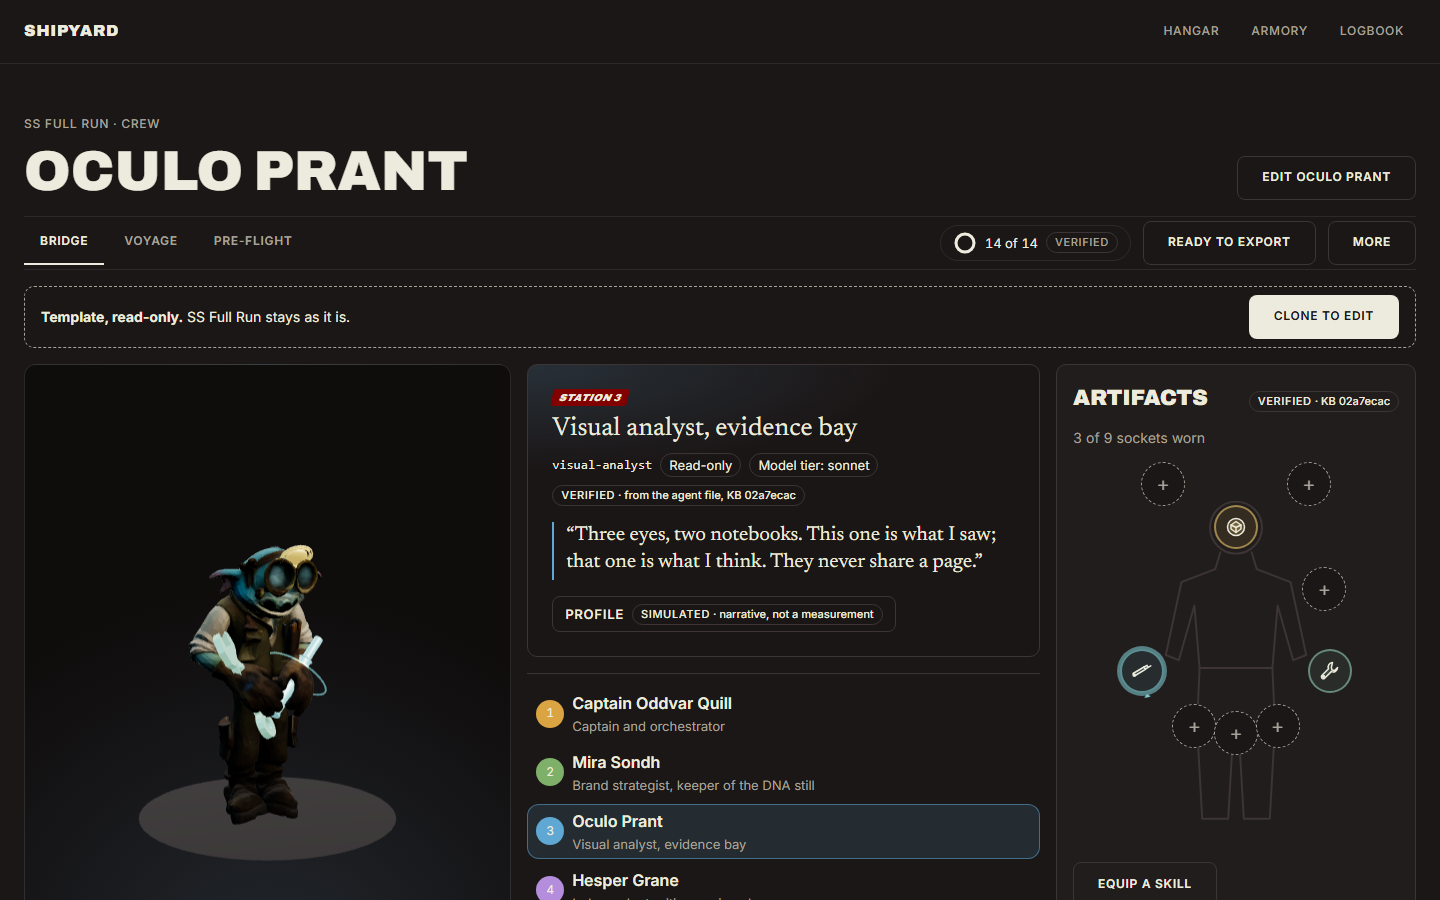
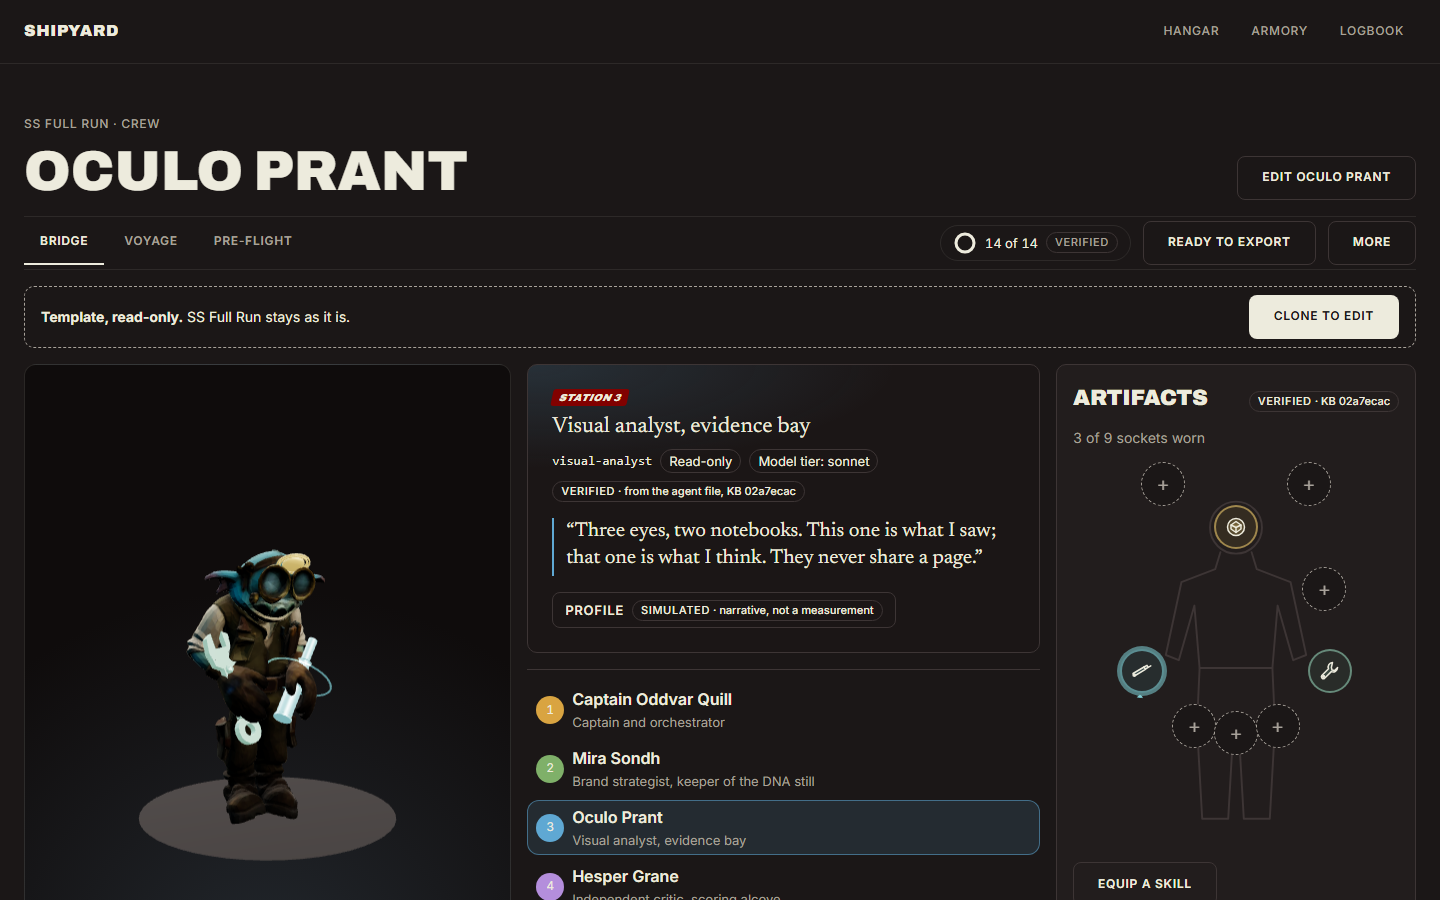
Shipyard T16: critic quick wins n1 n3 n4 n5 + residues

Changed region(s): [[0.375, 0.4667, 0.7188, 1.0], [0.125, 0.5911, 0.25, 0.84]]

diff --git a/shipyard/src/features/board/BoardPage.tsx b/shipyard/src/features/board/BoardPage.tsx
@@ -35,30 +35,60 @@ import { PHASE_LABEL, pipelineOf } from './pipeline';
 
 /** Longest the loading veil stays up: past this the scene shows whatever it has, never a stuck veil. */
 const LOADING_MAX_MS = 20_000;
+/** When the loader never reports work (every GLB already cached), the veil lifts after this grace (critic n5). */
+const LOADING_IDLE_GRACE_MS = 1_500;
+/** After this long the veil offers a way out: enter the bridge without 3D, or retry (critic n5). */
+const LOADING_SLOW_MS = 8_000;
 
 /**
  * Cold load (finish review): the corridor's GLBs take a few seconds, and the stage was plain black
  * meanwhile. The veil names what is coming with a progress line, and lifts once the loader has started
- * and gone idle, or after LOADING_MAX_MS. It covers only the stage: the card, Skip and the rail work at once.
+ * and gone idle, once the loader has stayed idle for a short grace, or after LOADING_MAX_MS. It covers
+ * only the stage: the card, Skip and the rail work at once. It is a polite status region, so a screen
+ * reader hears "Loading" and then "Ready" (v2, critic n5).
  */
-function LoadingVeil({ name }: { name: string }) {
+function LoadingVeil({ name, onSkip }: { name: string; onSkip: () => void }) {
   const { active, progress, total } = useProgress();
-  const [timedOut, setTimedOut] = useState(false);
+  const [elapsed, setElapsed] = useState<'start' | 'grace' | 'slow' | 'max'>('start');
   const [seen, setSeen] = useState(false);
   useEffect(() => {
-    const t = window.setTimeout(() => setTimedOut(true), LOADING_MAX_MS);
-    return () => window.clearTimeout(t);
+    const ts = [
+      window.setTimeout(() => setElapsed((e) => (e === 'start' ? 'grace' : e)), LOADING_IDLE_GRACE_MS),
+      window.setTimeout(() => setElapsed((e) => (e === 'max' ? e : 'slow')), LOADING_SLOW_MS),
+      window.setTimeout(() => setElapsed('max'), LOADING_MAX_MS),
+    ];
+    return () => ts.forEach((t) => window.clearTimeout(t));
   }, []);
   // remembered during render (React's pattern for state derived from a changing input), not in an effect
   if (active && !seen) setSeen(true);
-  const done = timedOut || (seen && !active) || (total > 0 && !active && progress >= 100);
+  const done = elapsed === 'max' || (seen && !active) || (!seen && !active && elapsed !== 'start') || (total > 0 && !active && progress >= 100);
+  const slow = !done && elapsed === 'slow';
   return (
-    <p className="ship-loading" data-testid="scene-loading" data-done={done || undefined} aria-hidden="true" style={{ ['--p' as string]: String(Math.min(1, progress / 100)) } as CSSProperties}>
-      <span className="label">Boarding {name}</span>
-      <span className="ship-loading-bar">
-        <span />
-      </span>
-    </p>
+    <div className="ship-loading" data-testid="scene-loading" data-done={done || undefined} role="status" aria-live="polite" style={{ ['--p' as string]: String(Math.min(1, progress / 100)) } as CSSProperties}>
+      {done ? (
+        <span className="sr-only">{name} is ready.</span>
+      ) : (
+        <>
+          <span className="label">Boarding {name}</span>
+          <span className="ship-loading-bar" aria-hidden="true">
+            <span />
+          </span>
+          {slow && (
+            <span className="ship-loading-slow">
+              <span className="prose">The ship is taking a while to load.</span>
+              <span className="ship-loading-actions">
+                <button type="button" className="btn btn-primary" onClick={onSkip} data-testid="enter-without-3d">
+                  Enter without 3D
+                </button>
+                <button type="button" className="btn btn-quiet" onClick={() => window.location.reload()}>
+                  Retry
+                </button>
+              </span>
+            </span>
+          )}
+        </>
+      )}
+    </div>
   );
 }
 
@@ -208,7 +238,7 @@ export function BoardTour({ ship, reduced, quality, lite, sound, onSound, onSkip
   return (
     <div className="ship-intro" data-testid="ship-intro" data-waypoint={wp?.id ?? 'bridge'}>
       <div className="ship-intro-stage" ref={stage} data-look={lockable ? 'capture' : 'drag'}>
-        <LoadingVeil name={ship.name} />
+        <LoadingVeil name={ship.name} onSkip={onSkip} />
         <ShipScene crew={crew} layout={layout} walker={walker} reduced={reduced} quality={quality} activeMember={member?.id ?? null} welcome={last} lite={lite} screens={screens} talking={talkingHere} bubble={bubble} found={found} waypoint={index ?? stop} sound={sound} onPick={pick} onInspect={inspect} onContextLost={onContextLost} />
         {lockable &&
           (captured ? (

diff --git a/shipyard/src/styles/ship.css b/shipyard/src/styles/ship.css
@@ -32,6 +32,8 @@
 .ship-turntable {
   aspect-ratio: 4 / 5;
   width: 100%;
+  /* the feet stay above the fold at 1440×900 (critic residue): the stage shortens; the figure is framed by height, so it stays whole */
+  max-height: max(380px, calc(100svh - 390px));
   border-radius: 12px;
   background: radial-gradient(120% 90% at 50% 100%, color-mix(in oklab, var(--c, #3a2f2b) 18%, #141010) 0%, #0f0c0c 70%);
   border: 1px solid color-mix(in oklab, currentColor 12%, transparent);
@@ -333,6 +335,19 @@
 .ship-loading[data-done] {
   opacity: 0;
   pointer-events: none;
+}
+.ship-loading-slow {
+  display: grid;
+  justify-items: center;
+  gap: var(--s2);
+  margin-top: var(--s3);
+  pointer-events: auto;
+}
+.ship-loading-actions {
+  display: flex;
+  flex-wrap: wrap;
+  justify-content: center;
+  gap: var(--s2);
 }
 .ship-loading-bar {
   width: 160px;
@@ -832,6 +847,8 @@
     bottom: calc(var(--s2) + env(safe-area-inset-bottom, 0px));
     max-height: 60svh;
     overflow: auto;
+    /* a chip reached by Tab or scrolled to stops above the pinned actions, never under them (critic residue; WCAG 2.4.11) */
+    scroll-padding-bottom: 72px;
     width: auto;
     gap: var(--s2);
     padding: var(--s3);
@@ -974,7 +991,8 @@
 .ship-more-menu { position: absolute; right: 0; top: calc(100% + 4px); z-index: 20; display: grid; gap: var(--s1); min-width: 200px; padding: var(--s2); background: var(--elevated); border: 1px solid var(--border); border-radius: var(--r-panel); }
 .template-line { display: flex; align-items: center; justify-content: space-between; gap: var(--s4); flex-wrap: wrap; margin: 0 0 var(--s4); padding: var(--s2) var(--s4); border: 1px dashed var(--muted); border-radius: var(--r-panel); font-size: 14px; }
 .template-line .btn { min-height: var(--hit); }
-.ship-identity-role { margin: 0; font-family: var(--font-serif); font-weight: 400; font-size: 26px; line-height: 1.2; }
+.ship-identity-role { margin: 0; font-family: var(--font-serif); font-weight: 400; font-size: 22px; line-height: 1.25; } /* the card-title token (DESIGN.md: 22 / 20px); was 26 (critic residue) */
+@media (max-width: 767px) { .ship-identity-role { font-size: 20px; } }
 .ship-identity > header > .skew-badge { justify-self: start; }
 .ship-profile-more > summary { list-style: none; cursor: pointer; display: inline-flex; gap: var(--s2); align-items: center; }
 .ship-profile-more > summary::-webkit-details-marker { display: none; }

diff --git a/shipyard/src/features/preflight/fix.ts b/shipyard/src/features/preflight/fix.ts
@@ -4,6 +4,23 @@
  * A finding with no member or stage of its own (a ship-wide one) goes to the screen that owns the rule.
  */
 import type { Check, Finding } from '../../domain/preflight';
+import { isStage, type Ship } from '../../domain/schema';
+import type { KbIndex } from '../../kb/artifacts';
+
+/** Words for the ids a fix names (critic n4): the crew member's name, the stage's label, the artifact's name. An id shows only when nothing names it (a retired item). */
+export interface FixNames {
+  member?: (id: string) => string;
+  stage?: (id: string) => string;
+  skill?: (id: string) => string;
+}
+
+export function fixNames(ship: Ship, idx?: KbIndex): FixNames {
+  return {
+    member: (id) => ship.crew.find((m) => m.id === id)?.character.name ?? id,
+    stage: (id) => ship.voyage.find((v) => isStage(v) && v.id === id)?.label ?? id,
+    skill: (id) => idx?.skill.get(id)?.name ?? id,
+  };
+}
 
 export interface FixTarget {
   /** a router path, for `<Link to>` */
@@ -13,19 +30,19 @@ export interface FixTarget {
 
 const VOYAGE_RULES = new Set(['PF-08', 'PF-10', 'PF-13']);
 
-export function fixTarget(shipId: string, check: Pick<Check, 'id'>, finding: Finding, memberName?: (id: string) => string): FixTarget | null {
+export function fixTarget(shipId: string, check: Pick<Check, 'id'>, finding: Finding, names: FixNames = {}): FixTarget | null {
   const fix = finding.fix;
   if (!fix) return null;
   const base = `/ship/${encodeURIComponent(shipId)}`;
   switch (fix.kind) {
     case 'stage':
-      return { to: `${base}/voyage?stage=${encodeURIComponent(fix.id)}`, label: `Fix stage ${fix.id}` };
+      return { to: `${base}/voyage?stage=${encodeURIComponent(fix.id)}`, label: `Fix the ${names.stage?.(fix.id) ?? fix.id} stage` };
     case 'member':
-      return { to: `${base}/bridge?member=${encodeURIComponent(fix.id)}`, label: `Fix ${memberName?.(fix.id) ?? fix.id}` };
+      return { to: `${base}/bridge?member=${encodeURIComponent(fix.id)}`, label: `Fix ${names.member?.(fix.id) ?? fix.id}` };
     case 'socket':
       return {
         to: `${base}/bridge?member=${encodeURIComponent(fix.member)}&skill=${encodeURIComponent(fix.skill)}`,
-        label: `Open ${memberName?.(fix.member) ?? fix.member}'s ${fix.skill}`,
+        label: `Open ${names.member?.(fix.member) ?? fix.member}'s ${names.skill?.(fix.skill) ?? fix.skill}`,
       };
     case 'ship':
       return VOYAGE_RULES.has(check.id)

diff --git a/shipyard/tests/unit/quick-wins.test.ts b/shipyard/tests/unit/quick-wins.test.ts
@@ -1,0 +1,48 @@
+/** v2 T16: the critic's n1, n3 and n4 as numbers, so they cannot drift back. */
+import { describe, expect, it } from 'vitest';
+import { defaultShip } from '../../src/domain/ship';
+import { isStage } from '../../src/domain/schema';
+import { fixNames, fixTarget } from '../../src/features/preflight/fix';
+import { fitWidth, MIN_FOCUS_FILL } from '../../src/features/hangar/FleetRing';
+import { ACTIVE_ORBIT_LIFT, ORBIT_STAGGER, orbitPhase } from '../../src/scene/artifacts/WornArtifacts';
+import { loadIndexFromDisk } from './helpers';
+
+const idx = loadIndexFromDisk();
+const AT = '2026-11-08T00:00:00.000Z';
+
+describe('n1: the focused hull keeps its size', () => {
+  it('never needs more than HULL_LENGTH / MIN_FOCUS_FILL of width, whatever the fleet size', () => {
+    for (let n = 2; n <= 9; n++) expect(fitWidth(n)).toBeLessThanOrEqual(3.9 / MIN_FOCUS_FILL + 1e-9);
+    expect(fitWidth(1)).toBe(4.5);
+  });
+});
+
+describe('n3: resting orbiters spread across the front arc', () => {
+  it('centres one item on the viewer and keeps several within the front half, evenly spaced', () => {
+    expect(orbitPhase(0, 1)).toBeCloseTo(Math.PI / 2);
+    const ph = [0, 1, 2, 3].map((i) => orbitPhase(i, 4));
+    for (const p of ph) expect(Math.abs(p - Math.PI / 2)).toBeLessThan(Math.PI / 2);
+    const gaps = ph.slice(1).map((p, i) => p - ph[i]);
+    for (const g of gaps) expect(g).toBeCloseTo(gaps[0]);
+    expect(ACTIVE_ORBIT_LIFT).toBeGreaterThan(ORBIT_STAGGER);
+  });
+});
+
+describe('n4: fix labels name things, not ids', () => {
+  const ship = defaultShip(idx, AT);
+  const names = fixNames(ship, idx);
+  const stage = ship.voyage.find(isStage)!;
+  const check = { id: 'PF-03' };
+  it('uses the stage label', () => {
+    expect(fixTarget(ship.id, check, { severity: 'block', reason: 'r', fix: { kind: 'stage', id: stage.id } }, names)?.label).toBe(`Fix the ${stage.label} stage`);
+  });
+  it("uses the member's name and the artifact's name", () => {
+    const m = ship.crew[0];
+    const skill = idx.kb.skills[0];
+    const label = fixTarget(ship.id, check, { severity: 'info', reason: 'r', fix: { kind: 'socket', member: m.id, skill: skill.id } }, names)?.label;
+    expect(label).toBe(`Open ${m.character.name}'s ${skill.name}`);
+  });
+  it('falls back to the id only for an unknown (retired) item', () => {
+    expect(names.skill?.('no-such-skill')).toBe('no-such-skill');
+  });
+});

diff --git a/shipyard/src/scene/artifacts/WornArtifacts.tsx b/shipyard/src/scene/artifacts/WornArtifacts.tsx
@@ -206,7 +206,18 @@ export const ORBIT_LIFT = 0.2;
  * its face toward the viewer (a flat disc seen edge-on read as a saucer).
  */
 export const ACTIVE_ORBIT_WIDEN = 1.2;
-export const ACTIVE_ORBIT_LIFT = 0.06;
+/** v2 (critic n3): 0.06 let the active path cross the resting items at the turntable angle; 0.15 clears them. */
+export const ACTIVE_ORBIT_LIFT = 0.15;
+/** Resting items spread across the front arc (162°) facing the camera, not the full circle, where the back half hid behind the head and the front half stacked. */
+export const ORBIT_FRONT_ARC = Math.PI * 0.9;
+/** Every other resting item sits this much higher, so neighbours never share a silhouette. */
+export const ORBIT_STAGGER = 0.07;
+
+/** The resting angle of orbiter i of n: evenly across the front arc, centred on the viewer (π/2 = +z). */
+export function orbitPhase(i: number, n: number): number {
+  const t = n <= 1 ? 0.5 : i / (n - 1);
+  return Math.PI / 2 + (t - 0.5) * ORBIT_FRONT_ARC;
+}
 
 export function OrbitArtifacts({ member, heightM, animate }: { member: SceneMember; heightM: number; animate: boolean }) {
   const pivots = useRef<(THREE.Group | null)[]>([]);
@@ -214,7 +225,7 @@ export function OrbitArtifacts({ member, heightM, animate }: { member: SceneMemb
   const orbiters = member.loadout.filter((a) => a.anchor === 'orbit');
   const fresh = useFresh(orbiters.map((a) => `${a.index}-${a.skill}`));
   const angle = useRef(0);
-  const phaseOf = (i: number) => (orbiters[i].index / Math.max(2, orbiters.length)) * Math.PI * 2 + Math.PI / 2;
+  const phaseOf = (i: number) => orbitPhase(i, orbiters.length);
   useFrame((_, dt) => {
     if (animate) angle.current += ACTIVE_RPS * Math.PI * 2 * dt;
     orbiters.forEach((a, i) => {
@@ -236,7 +247,7 @@ export function OrbitArtifacts({ member, heightM, animate }: { member: SceneMemb
         return (
           <group
             key={`${a.index}-${a.skill}`}
-            position={[0, active ? ACTIVE_ORBIT_LIFT : 0, 0]}
+            position={[0, active ? ACTIVE_ORBIT_LIFT : i % 2 ? ORBIT_STAGGER : 0, 0]}
             rotation={[0, -phaseOf(i), 0]}
             ref={(g) => {
               pivots.current[i] = g;

diff --git a/shipyard/src/features/hangar/FleetRing.tsx b/shipyard/src/features/hangar/FleetRing.tsx
@@ -29,15 +29,20 @@ const FIT_SINGLE = 4.5;
 /** Focus ring under the front hull: wider than half the hull, so a turning hull stays inside it. */
 const FOCUS_RING = [2.25, 2.3] as const;
 
+/** The focused hull never fills less than this share of the stage width (v2, critic n1). */
+export const MIN_FOCUS_FILL = 0.55;
+
 /**
  * Width in scene units that must stay in frame (finish review M4). One ship: FIT_SINGLE. More: every
- * hull's widest sideways reach on the ring, plus a hull length, so neighbours are whole, not clipped.
+ * hull's widest sideways reach on the ring, plus a hull length, so neighbours are whole, not clipped —
+ * but capped (critic n1) so the focused hull keeps at least MIN_FOCUS_FILL of the stage; far hulls then
+ * crop at the edges, where the stage fades them out (`.fleet-ring` mask).
  */
 export function fitWidth(n: number): number {
   if (n <= 1) return FIT_SINGLE;
   let reach = 0;
   for (let i = 0; i < n; i++) reach = Math.max(reach, Math.abs(Math.sin((i / n) * Math.PI * 2)) * RING_RADIUS);
-  return Math.max(FIT_SINGLE, 2 * reach + HULL_LENGTH);
+  return Math.min(HULL_LENGTH / MIN_FOCUS_FILL, Math.max(FIT_SINGLE, 2 * reach + HULL_LENGTH));
 }
 
 function Hull({ hull, pigment, spin, focused, onPick }: { hull: string; pigment: string; spin: boolean; focused: boolean; onPick: () => void }) {

diff --git a/shipyard/src/features/shared/ShipNav.tsx b/shipyard/src/features/shared/ShipNav.tsx
@@ -15,7 +15,7 @@ import { force2d, hasWebGL } from '../../lib/preferences';
 import { useDispatch } from '../../store/context';
 import { uniqueShipId } from '../../store/store';
 import { useStoreState } from '../../store/context';
-import { fixTarget } from '../preflight/fix';
+import { fixNames, fixTarget } from '../preflight/fix';
 
 export type ShipScreen = 'bridge' | 'voyage' | 'preflight';
 
@@ -96,7 +96,7 @@ export function ShipNav({ ship, current, showNext = true }: { ship: Ship; curren
   const webgl = hasWebGL() && !force2d();
   const next = report.next;
   const finding = next?.findings.find((f) => f.severity === next.status) ?? next?.findings[0];
-  const fix = next && finding ? fixTarget(ship.id, next, finding, (id) => ship.crew.find((m) => m.id === id)?.character.name ?? id) : null;
+  const fix = next && finding ? fixTarget(ship.id, next, finding, fixNames(ship, idx)) : null;
   const nextTo = report.applicable === 0 ? `${base}/bridge` : (fix?.to ?? `${base}/preflight`);
   const nextLabel = report.applicable === 0 ? 'Add a crew member' : next ? (fix?.label ?? 'Open Pre-flight') : 'Ready to export'; // the fix in words, not a check code (finish review m2)
   const items: { id: ShipScreen; label: string; testid?: string }[] = [

diff --git a/shipyard/src/scene/Turntable.tsx b/shipyard/src/scene/Turntable.tsx
@@ -93,10 +93,12 @@ export function Turntable({ member, reduced, onContextLost, onReady, probe }: { 
           <Lightformer form="rect" intensity={1.2} position={[-3, 1.5, 1]} scale={[3, 5, 1]} color={member.pigment} />
           <Lightformer form="rect" intensity={1.6} position={[0, 4, -3]} scale={[6, 2, 1]} color="#fff6ea" />
         </Environment>
-        <hemisphereLight args={['#fff6ea', '#2a2320', 2.4]} />
+        <hemisphereLight args={['#fff6ea', '#3a302b', 2.8]} />
         <directionalLight position={[2, 4, 3]} intensity={4} />
         <directionalLight position={[-3, 2, -2]} intensity={1.2} color={member.pigment} />
         <directionalLight position={[0, 3, -4]} intensity={1.4} />
+        {/* rim from behind the shoulder: separates a dark costume from the noir stage (critic residue, "murky captain") */}
+        <directionalLight position={[-1.6, 2.6, -3.2]} intensity={2.4} color="#fff2e0" />
         {probe && <AnchorProbe member={member} out={probe} />}
         <CrewFigure key={member.id} member={member} reduced={reduced} attention={0.6} onLoaded={loaded} />
         <mesh rotation={[-Math.PI / 2, 0, 0]} position={[0, 0, 0]}>

diff --git a/shipyard/tests/unit/logbook.test.ts b/shipyard/tests/unit/logbook.test.ts
@@ -124,7 +124,7 @@ describe('fix links', () => {
   const check = { id: 'PF-03' };
   it('stage -> voyage?stage=, member -> bridge?member=, socket -> bridge?member=&skill=', () => {
     expect(fixTarget('s', check, { severity: 'block', reason: 'r', fix: { kind: 'stage', id: 'build' } })?.to).toBe('/ship/s/voyage?stage=build');
-    expect(fixTarget('s', check, { severity: 'block', reason: 'r', fix: { kind: 'member', id: 'engineer' } }, () => 'Forge')).toEqual({ to: '/ship/s/bridge?member=engineer', label: 'Fix Forge' });
+    expect(fixTarget('s', check, { severity: 'block', reason: 'r', fix: { kind: 'member', id: 'engineer' } }, { member: () => 'Forge' })).toEqual({ to: '/ship/s/bridge?member=engineer', label: 'Fix Forge' });
     expect(fixTarget('s', check, { severity: 'info', reason: 'r', fix: { kind: 'socket', member: 'engineer', skill: 'gsap-core' } })?.to).toBe('/ship/s/bridge?member=engineer&skill=gsap-core');
   });
   it('ship-wide findings go to the screen that owns the rule; a finding without a fix has no link', () => {

diff --git a/shipyard/src/styles/bridge.css b/shipyard/src/styles/bridge.css
@@ -92,6 +92,11 @@ textarea.field { min-height: 88px; resize: vertical; }
 .fleet-stage { position: relative; min-height: 320px; border: 1px solid var(--hairline); border-radius: var(--r-panel); background: radial-gradient(90% 90% at 50% 70%, #2a2320 0%, var(--ink) 75%); overflow: hidden; }
 .hangar-top[data-stage] .fleet-stage { height: min(calc(100svh - var(--header-h) - 2 * var(--s6)), 780px); min-height: 480px; }
 .fleet-ring { position: absolute; inset: 0; }
+/* Far hulls crop at the stage edges (critic n1); the edges fade them out instead of cutting them. */
+.fleet-ring[data-count]:not([data-count="1"]) {
+  -webkit-mask-image: linear-gradient(90deg, transparent 0, #000 9%, #000 91%, transparent 100%);
+  mask-image: linear-gradient(90deg, transparent 0, #000 9%, #000 91%, transparent 100%);
+}
 .fleet-ring canvas { width: 100% !important; height: 100% !important; }
 .fleet-ring-loading { display: grid; place-items: center; color: var(--muted); }
 .fleet-ring-loading .hull { width: 60%; }

diff --git a/shipyard/src/features/preflight/PreflightPage.tsx b/shipyard/src/features/preflight/PreflightPage.tsx
@@ -17,12 +17,13 @@ import { useStoreState } from '../../store/context';
 import { ShipNav } from '../shared/ShipNav';
 import { useShip } from '../shared/useShip';
 import { ExportPanel } from './ExportPanel';
-import { fixTarget } from './fix';
+import { fixNames, fixTarget } from './fix';
 import { HullDiagram } from './HullDiagram';
 import { StatusMark } from './StatusMark';
 
 function FixLink({ shipId, check, finding, ship, primary }: { shipId: string; check: Check; finding: Finding; ship: Ship; primary?: boolean }) {
-  const target = fixTarget(shipId, check, finding, (id) => ship.crew.find((m) => m.id === id)?.character.name ?? id);
+  const idx = useKb();
+  const target = fixTarget(shipId, check, finding, fixNames(ship, idx));
   if (!target) return null;
   return (
     <Link className={`btn ${primary ? 'btn-primary' : 'btn-quiet'} pf-fix`} to={target.to} data-testid="fix-link">

diff --git a/shipyard/PROGRESS-AND-DECISIONS.md b/shipyard/PROGRESS-AND-DECISIONS.md
@@ -361,3 +361,32 @@ Written:
   Nothing is approved and nothing was generated.
 
 The v1 open items n1 and n3–n5 move into T16; n2 moves into T24 (A1).
+
+## T16: critic quick wins (2026-11-08)
+
+- **n1 (hangar):** `fitWidth` is capped so the focused hull keeps at least 55% of the stage width
+  (`MIN_FOCUS_FILL`). Far hulls crop at the edges, behind a 9% edge mask.
+- **n3 (orbit):** the resting orbiters spread evenly across a 162° front arc (`orbitPhase`).
+  Alternate items sit 0.07 higher; the active lift is 0.15.
+- **n4 (fix labels):** `fixNames(ship, idx)` gives the stage label, the member's name and the
+  artifact's name. An id shows only for an unknown item.
+- **n5 (veil):**
+  - it is now a `role=status` polite region and ends with "<ship> is ready";
+  - it lifts after a 1.5 s grace when the loader never reports work;
+  - at 8 s it offers **Enter without 3D** (the bridge) or **Retry**.
+- **Residues:**
+  - the turntable is clamped to `max(380px, 100svh − 390px)`, so the feet and plinth show at
+    1440×900;
+  - a back rim light and a lifted hemisphere ground colour on the turntable;
+  - `scroll-padding-bottom: 72px` on the phone waypoint card (WCAG 2.4.11);
+  - the identity role is 22px / 20px phone.
+
+**Verified:**
+
+- typecheck and lint clean;
+- unit tests 257/257 (5 new in `quick-wins.test.ts`);
+- e2e desktop: bridge, hangar, preflight, simplicity and scene 61/61;
+- screens rechecked by eye: `hangar-1440`, `bridge-captain-1440`.
+
+**Not run:** the phone project, and the full QA sweep (both deferred to T25). n2 (ship-e) is
+still visible; it is T24.
